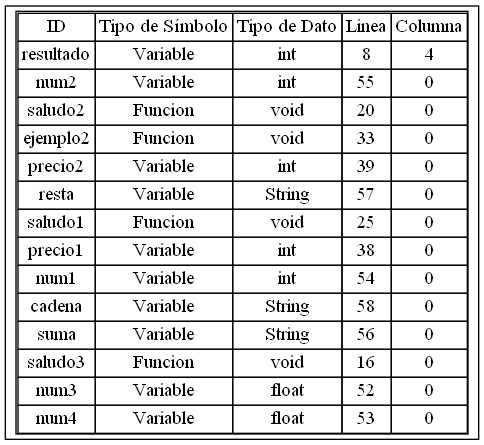
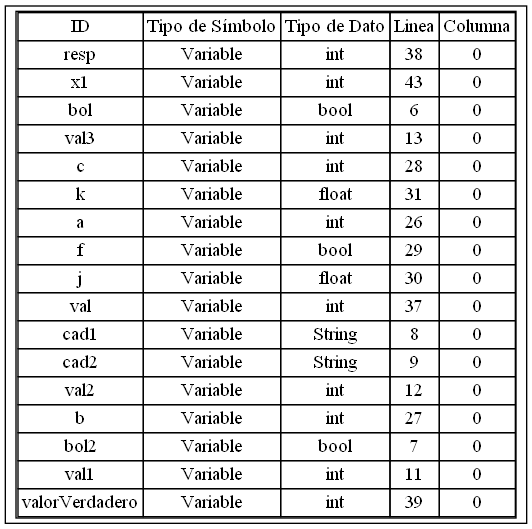
docu

diff --git a/README.md b/README.md
@@ -1,1 +1,45 @@
-# OLC2_P2
+# Interprete T-Swift
+
+## Manual de Usuario
+
+El uso del interprete es sencillo ya que cuenta con una interfaz bastante intuitiva. Al iniciar, encontrará una barra con los siguientes títulos:
+
+* Archivo: este menú se compone de las siguientes opciones
+    1. Crear archivo: Permite ingresar un nuevo archivo.
+    2. Abrir archivo: Permite subir código desde el explorador de archivos de su computadora.
+    3. Guardar archivo: Permite guardar el código en su computadora.
+* Reportes: este menú permite lo siguiente
+    1. Tabla de símbolos: Símbolos encontrados durante el análisis del código.
+    2. Tabla de errores: En caso existan errores léxicos, sintácticos o semánticos durante la ejecución de su código estos podrán ser visualizados acá.
+* Editar
+* Acerca de
+
+Interfaz de inicio.  
+![Interfaz de inicio](https://imgur.com/v2zYP1B.png)
+
+Subiendo un archivo: 
+![Subiendo archivo](https://imgur.com/OwuYchn.png)
+
+Ejecutando archivo
+![Ejecutando archivo](https://imgur.com/2kl8q49.png)
+
+Tabla de símbolos generada
+![Tabla de símbolos](https://imgur.com/t2tyG9h.png)
+
+Tabla de errores. En este caso se declaró dos veces una misma función.
+![Tabla de errores](https://imgur.com/eM4KaY9.png)
+
+Básicamente este es el flujo de la aplicación.
+
+## Manual Técnico
+El proyecto se basa en el lenguaje Golang, así como de la herramienta ANTLR en su versión 4. Se utilizó el patrón de diseño Visitor. Y para el frontend, se utilizó HTML5, CSS3 Y JS. Asimismo, se utilizó la librería Bootstrap y Graphviz.
+
+Dado que ANTLR4 ofrece la facilidad de únicamente recorrer el árbol de análisis sintáctico el patron de diseño Visitor unicamente se encarga de visitar cada uno de los nodos para efectuar las operaciones necesarias para la correcta ejecución del código. 
+
+Por lo cual, en función de los requerimientos el proyecto se moduló de la siguiente forma:
+
+![Modulacion](https://imgur.com/j1xVRz0.png)
+
+En donde cada uno de los archivos contiene el código necesario para ejecutar las operaciones dependiendo el tipo que sean. Finalmente, se tiene un modulo dedicado a la generación de código DOT para generar las imágenes en formato PNG de los distintos reportes mencionados anteriormente. 
+
+![Estructuras](https://imgur.com/sN7oHKA.png)
